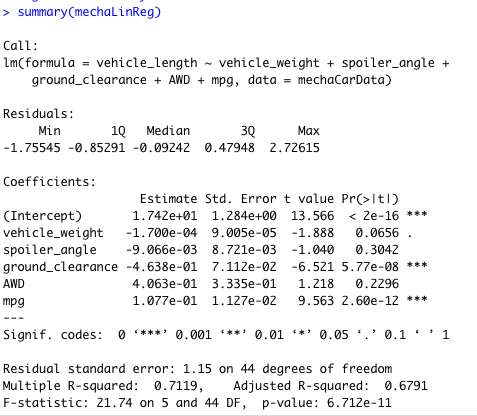
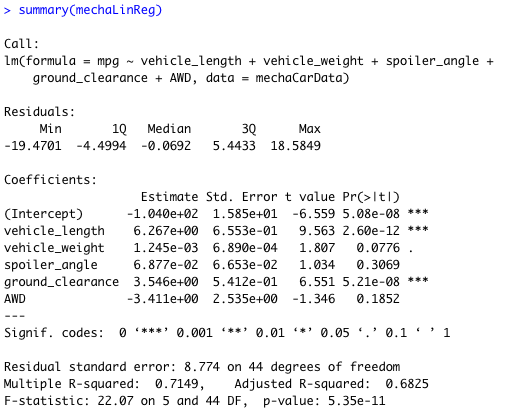
added files and updated readme for deliverable 3 and stats study

diff --git a/README.md b/README.md
@@ -2,9 +2,9 @@
 In this project, we perform a multiple linear regression analysis, collect summary statistics and run t-tests using the data. Then, we create a statistical analysis to compare the vehicle performances between cars at MechaCar and cars at other manufacturers.
 
 ## Linear Regression to Predict MPG
-- After performing the linear regression analysis in R, we can see the vehicle weight, spoiler angle and AWD provide a non-random amount of variance to the mpg values in the dataset while the most amount of random variance are the vehicle length and ground clearance
+- After performing the linear regression analysis in R, we can see the vehicle length and ground clearance provide a non-random amount of variance to the mpg values in the dataset since they have a very small p value which means they have a high level of significance
 - The slope of the linear model is considered to be nonzero because the p-value is less than 0.05
-- The multiple R squared value is about 0.712 while the adjusted R squared value is 0.679. Since we are considering six variables, we will look at the adjusted value which means about 68% of the time the model will predict mpg values correctly. Although this is greater than one half, it is not the most effective prediction because it is not above 0.9 or even above 0.7. Since the value is above 0.5, it does catch our attention and is considered to be somewhat effective just not the most effective.
+- The multiple R squared value is about 0.7149 while the adjusted R squared value is 0.6825. Since we are considering six variables, we will look at the adjusted value which means about 68% of the time the model will predict mpg values correctly. Although this is greater than one half, it is not the most effective prediction because it is not above 0.9 or even above 0.7. Since the value is above 0.5, it does catch our attention and is considered to be somewhat effective just not the most effective.
 
 
 ![Linear Regression output](https://github.com/kmaluccio/MechaCar_Statistical_Analysis/blob/main/multLinReg.png)
@@ -29,10 +29,31 @@ Based on our findings and the design specifications for the MechaCar suspension 
 
 ## T-Tests on Suspension Coils
 
-Interpret findings for the t-test results here and put a screenshot of the output from running the R script.
+Across all manufacturing lots, we can see from the t-test that the p-value is 0.0603; meaning there is a 6% chance that the mean occurs by random chance. Although this is low, we want below 0.05 (5%) in order for this to be considered a significant result. The results of the t-test are below:
+
+![T-test](https://github.com/kmaluccio/MechaCar_Statistical_Analysis/blob/main/t-testA.png)
+
+We then tested each lot individually to compare to the population mean of 1500 pounds per square inch and the results for all three lots are below.
+
+![T-test-lot1](https://github.com/kmaluccio/MechaCar_Statistical_Analysis/blob/main/t-test1.png)
+
+We can see the p-value for Lot 1 equals 1 which tells us that there is no difference between the mean of the PSI in the lot and the population mean other than being due to chance. In this case, the p-value tells us that this data is statistically insignificant.
+
+![T-test-lot2](https://github.com/kmaluccio/MechaCar_Statistical_Analysis/blob/main/t-test2.png)
+
+We can see the p-value for Lot 2 equals 0.607 which implies that this result occurs by random chance about 61% of the time. Again, this is not a statistically significant result.
+
+![T-test-lot3](https://github.com/kmaluccio/MechaCar_Statistical_Analysis/blob/main/t-test3.png)
+
+Finally, we find the p-value for lot 3 to be 0.0417 which is less than 0.05. This makes the data statistically significant since we have about 4% is due to chance and the corresponding confidence level is about 96%.
 
 ## Study Design: MechaCar vs Competition
 
-description of statistical study that can quantify how the MechaCar performs against competition
+To perform a statistical study comparing MechaCar performance to vehicle performance of other manufacturers.
 
-- address questions: what metrics are you going to test? what is the null hypothesis or alternative hypothesis? what statistical test would you use to test the hypothesis? what data is needed to run the statistical test?
+- questions: what metrics are you going to test? what is the null hypothesis or alternative hypothesis? what statistical test would you use to test the hypothesis? what data is needed to run the statistical test?
+- Metrics: we want to test city and highway fuel efficiencies
+- Null hypothesis: all of the cars of the same class have the same fuel efficiencies
+- Alternative hypothesis: not all of the cars have the same fuel efficiencies
+- use ANOVA test and ggplot to complete the analysis for both types of fuel efficiencies and create a visualization to show the results of different cars
+- to run the test, we would need to collect fuel efficiency data from cars of all class types; for example, we could collect 100 samples for each car type so for n classes we would get 100n data points to use in our testing
